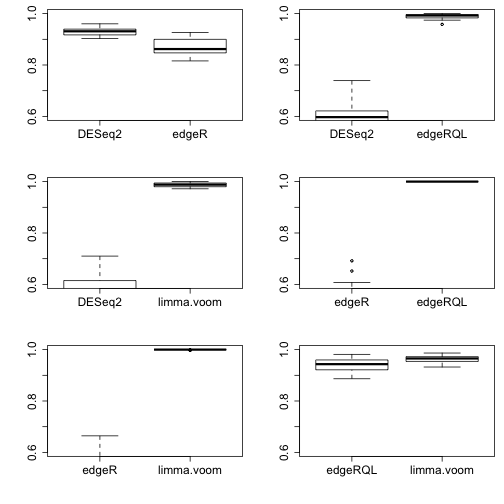
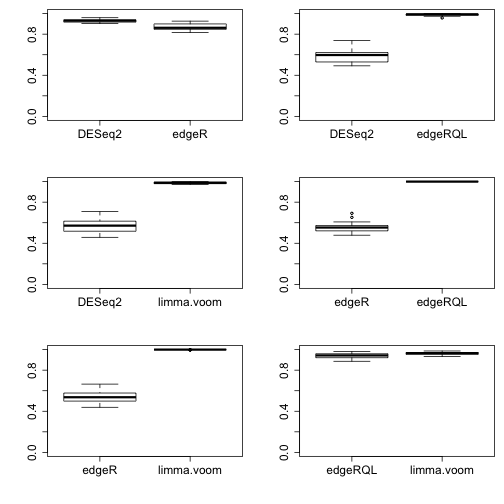
update

diff --git a/plots.md b/plots.md
@@ -56,7 +56,7 @@ lines()
 
 ```r
 bigpar(3,2,mar=c(5,5,1,1))
-ylims <- c(0.6, 1)
+ylims <- c(0, 1)
 boxplot(getOverlap("DESeq2","edgeR",resTest,.1), ylim=ylims)
 boxplot(getOverlap("DESeq2","edgeRQL",resTest,.1), ylim=ylims)
 boxplot(getOverlap("DESeq2","limma.voom",resTest,.1), ylim=ylims)
